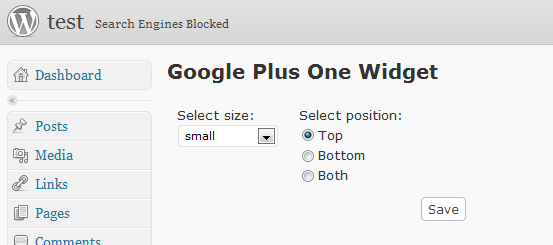
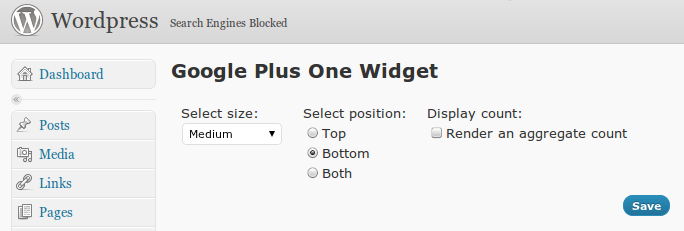
adding 1.0 funcionalities for trunk
git-svn-id: https://plugins.svn.wordpress.org/google-plus-one-widget/trunk@396092 b8457f37-d9ea-0310-8a92-e5e31aec5664

diff --git a/google-plus-one-admin.php b/google-plus-one-admin.php
@@ -7,6 +7,13 @@
   if(isset($_POST['position'])){
     update_option('google_plusone_widget_ks_position', $_POST['position']);
   }
+  
+  if(isset($_POST['count'])){
+    update_option('google_plusone_widget_ks_count', true);
+  }
+  else{
+    update_option('google_plusone_widget_ks_count', false);  
+  }
 
   // size options
   $sizes = array(
@@ -24,13 +31,13 @@
   );
 
   // set size
-  $selectedSize = get_option('google_plusone_widget_ks_size', null);
+  $selectedSize = get_option('google_plusone_widget_ks_size', 'tall');
   if(!empty($selectedSize) && isset($sizes[$selectedSize])){
     $sizes[$selectedSize] = true;
   }
 
   // set position
-  $selectedPosition = get_option('google_plusone_widget_ks_position', null);
+  $selectedPosition = get_option('google_plusone_widget_ks_position', 'top');
   if(!empty($selectedPosition) && isset($positions[$selectedPosition])){
     $positions[$selectedPosition] = true;
   }
@@ -38,7 +45,7 @@
 ?>
 
 <style type="text/css">
-  .sizes, .positions {
+  .sizes, .positions, .count {
     float: left;
     margin: 10px
   }
@@ -52,7 +59,7 @@
   }
 
   #settings_form{
-    width: 300px;
+    width: 500px;
   }
 </style>
 <h2>Google Plus One Widget</h2>
@@ -64,9 +71,9 @@
       <select name="size" id="button_size">
         <?php foreach($sizes as $size => $selected): ?>
           <?php if($selected): ?>
-            <option selected="true" value="<?php echo $size; ?>"><?php echo $size; ?></option>
+            <option selected="true" value="<?php echo $size; ?>"><?php echo ucfirst($size); ?></option>
           <?php else: ?>
-            <option value="<?php echo $size; ?>"><?php echo $size; ?></option>
+            <option value="<?php echo $size; ?>"><?php echo ucfirst($size); ?></option>
           <?php endif; ?>
         <?php endforeach; ?>
       </select>
@@ -86,7 +93,19 @@
       </table>
     </div>
   </div>
+
+  <div class="count">
+    <div id="count_label">Display count:</div>
+    <div id="count_check">
+      <table>
+          <tr>
+            <td><input type="checkbox" name="count" value="<?php echo $position; ?>" <?php if(get_option('google_plusone_widget_ks_count', true)) echo 'checked="checked"'; ?> /></td>
+            <td>Render an aggregate count</td>
+          </tr>
+      </table>
+    </div>
+  </div>    
   <div style="clear: both;"/>
 
-  <input class="save_btn" type="submit" value="Save"/>
+  <input class="button-primary save_btn" type="submit" value="Save"/>
 </form>

diff --git a/google-plus-one-widget.php b/google-plus-one-widget.php
@@ -6,7 +6,7 @@ Plugin Name: Google Plus One Widget
 
 Description: Adds the new Google "+1" button on single posts pages, page type pages and homepage under post titles. Really simple just install and enjoy :)
 
-Version: 0.6
+Version: 1.0
 
 Author: Karol Sojko
 
@@ -32,19 +32,21 @@ function add_google_plusone_content($content = ''){
     $content = $button . $content . $button;
   }
 
-	return $content;
+  return $content;
 }
 
 function get_google_plusone_button($size = 'tall'){
   if(!is_single() && !is_page()){
-    $button = '<div class="google_plusone_widget"><g:plusone href="' . get_permalink() . '" size="' . get_option('google_plusone_widget_ks_size', 'tall') .'"></g:plusone></div>';
+    $button = '<div class="google_plusone_widget"><g:plusone 
+      count="' . (get_option('google_plusone_widget_ks_count', true) ? 'true' : 'false') . '" href="' . get_permalink() . '" size="' . get_option('google_plusone_widget_ks_size', 'tall') .'"></g:plusone></div>';
   }
   else{
-    $button = '<div class="google_plusone_widget"><g:plusone size="' . get_option('google_plusone_widget_ks_size', 'tall') .'"></g:plusone></div>';
+    $button = '<div class="google_plusone_widget"><g:plusone 
+      count="' . (get_option('google_plusone_widget_ks_count', true) ? 'true' : 'false') . '" size="' . get_option('google_plusone_widget_ks_size', 'tall') .'"></g:plusone></div>';
   }
 
 
-	return $button;
+  return $button;
 }
 
 add_action('wp_print_scripts', 'add_google_plusone_header');
